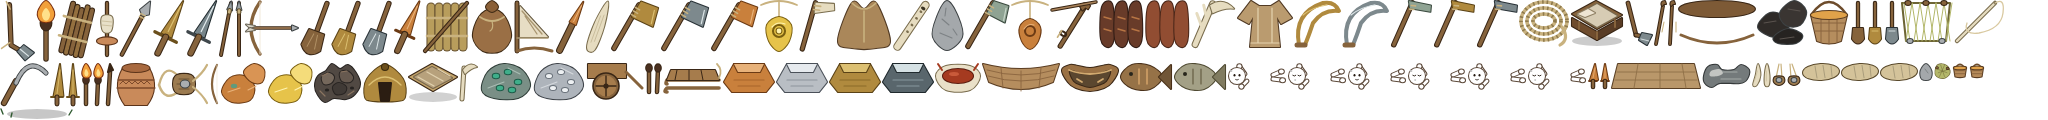
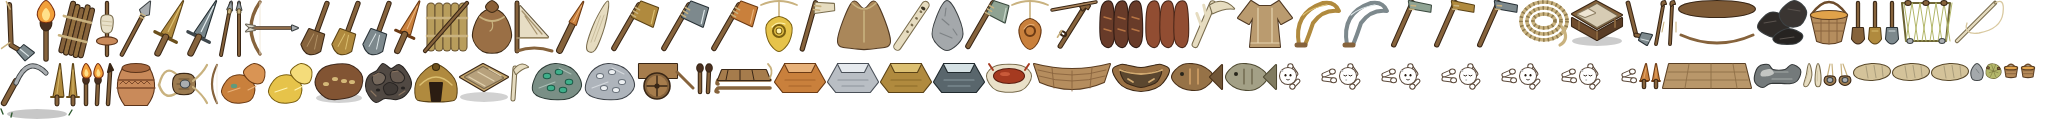
m15: make pemmican and open the populated preservation web

Changed region(s): [[0.1562, 0.525, 1.0, 0.875]]

diff --git a/src/sim/knowledge/Tech.ts b/src/sim/knowledge/Tech.ts
@@ -203,6 +203,7 @@ export const TECHS = [
   'sledge', 'pack_animals', 'horse_riding', 'sail',
   'preserving',
   'smoking',
+  'pemmican',
 ] as const;
 export type Tech = (typeof TECHS)[number];
 
@@ -321,7 +322,7 @@ export type TechKind = 'practice' | 'device';
  * a node lives never changes what anyone can discover, which is why moving a
  * node between webs is bit-identical.
  */
-export type WebId = 'main' | 'arms' | 'field' | 'domestication' | 'kitchen' | 'metal';
+export type WebId = 'main' | 'arms' | 'field' | 'domestication' | 'kitchen' | 'metal' | 'preservation';
 
 export interface WebDef {
   id: WebId;
@@ -342,6 +343,7 @@ export const WEBS: Record<WebId, WebDef> = {
   // M15 phase 37: opened by the first metal anyone used, once a second node
   // (`bellows`, 37e) gives it content. The colour is the domain's verdigris.
   metal: { id: 'metal', label: 'Metal', gate: 'native_copper', color: '#3fb8a0' },
+  preservation: { id: 'preservation', label: 'Preservation', gate: 'preserving', color: '#a88a52' },
 };
 
 /** The webs that hang off a gate, in the order a screen should list them. */
@@ -466,22 +468,37 @@ export interface TechDef {
  * catch.
  */
 export const TECH: Record<Tech, TechDef> = {
+  pemmican: {
+    id: 'pemmican', label: 'Pemmican', domain: 'fire', tier: 'craft', web: 'preservation',
+    age: 'mesolithic', firstKnown: 'Mesolithic', kind: 'device',
+    requires: ['preserving'], difficulty: 0.35, skill: 'cook',
+    prototype: { dried_meat: 1, fat: 1 }, maxRefinement: 2,
+    sparks: [{ needs: [{ kind: 'knows', tech: 'preserving' }, { kind: 'holding', item: 'fat' }],
+      weight: 0.6, story: 'pounded dried meat with fat into food that could be carried for a long journey' },
+      { needs: [{ kind: 'knows', tech: 'preserving' }, { kind: 'feeling', need: 'hunger' }, { kind: 'doing', action: 'craft' }],
+        weight: 0.4, story: 'wanted a smaller, richer ration for the road' }],
+    description: 'Pound dried meat with fat to make nourishing travel food.',
+  },
   smoking: {
     id: 'smoking', label: 'Smoking food', domain: 'fire',
-    age: 'mesolithic', firstKnown: 'Mesolithic', kind: 'device',
+    age: 'mesolithic', firstKnown: 'Mesolithic', kind: 'device', web: 'preservation',
     requires: ['preserving', 'firemaking'], difficulty: 0.4, skill: 'cook',
     prototype: { meat: 1, sticks: 2 }, maxRefinement: 2,
     sparks: [{ needs: [{ kind: 'knows', tech: 'preserving' }, { kind: 'holding', item: 'dried_meat' }],
-      weight: 0.6, story: 'noticed that strips hung above the fire kept better than strips left in the air' }],
+      weight: 0.6, story: 'noticed that strips hung above the fire kept better than strips left in the air' },
+      { needs: [{ kind: 'knows', tech: 'preserving' }, { kind: 'knows', tech: 'firemaking' }, { kind: 'holding', item: 'sticks' }],
+        weight: 0.4, story: 'wondered whether smoke would help food keep longer' }],
     description: 'Smoke meat and fish on a drying rack beside a hearth.',
   },
   preserving: {
     id: 'preserving', label: 'Preserving food', domain: 'fire',
-    age: 'mesolithic', firstKnown: 'Mesolithic', kind: 'device',
+    age: 'mesolithic', firstKnown: 'Mesolithic', kind: 'device', opens: 'preservation',
     requires: ['cooking', 'cordage'], difficulty: 0.35, skill: 'cook',
     prototype: { meat: 1, rope: 1, sticks: 2 }, maxRefinement: 2,
     sparks: [{ needs: [{ kind: 'knows', tech: 'cooking' }, { kind: 'holding', item: 'meat' }],
-      weight: 0.6, story: 'hung strips of meat in the air and found that they kept longer' }],
+      weight: 0.6, story: 'hung strips of meat in the air and found that they kept longer' },
+      { needs: [{ kind: 'knows', tech: 'cooking' }, { kind: 'knows', tech: 'cordage' }, { kind: 'holding', item: 'fish' }],
+        weight: 0.4, story: 'thought of hanging fish on cord to keep them for another day' }],
     description: 'Dry meat and fish on a rack so they keep longer.',
   },
   firemaking: {
@@ -2602,6 +2619,8 @@ export const TECH_EFFECTS: Record<Tech, TechEffect> = {
     site: 'BUILDINGS.drying_rack and RECIPES.dried_meat/dried_fish; Inventory.spoil reads their spoilTicks' },
   smoking: { summary: 'A rack beside a hearth makes smoked food that keeps longer than dried food.',
     site: 'RECIPES.smoked_meat/smoked_fish; order, craft and Brain require a physical hearth' },
+  pemmican: { summary: 'Dried meat and fat become nourishing food for long journeys.',
+    site: 'RECIPES.pemmican and ITEMS.pemmican; ordinary eating and ComarcaInventoryTransfer ration readers' },
   spear: {
     summary: 'A blade at the end of a shaft: harder blows, first strikes, and more fish when harpooned.',
     site: 'ActionSystem.doAttack, doHunt and doHarvest; RECIPES.spear',

diff --git a/src/sim/__tests__/pemmican.test.ts b/src/sim/__tests__/pemmican.test.ts
@@ -1,0 +1,47 @@
+import { describe, expect, it } from 'vitest';
+import { Simulation } from '../core/Simulation.ts';
+import { Inventory, ITEMS } from '../entities/Item.ts';
+import { ComarcaInventoryTransfer } from '../world/ComarcaInventoryTransfer.ts';
+import { RATION_NUTRITION } from '../world/ResourceProfile.ts';
+import { TECH, techsOfWeb, webOf } from '../knowledge/Tech.ts';
+
+describe('pemmican and the populated preservation web', () => {
+  it('pounds actual dried meat and fat without a station, consumes inputs once, and is edible', () => {
+    const sim = new Simulation({ seed: 'pemmican', world: { width: 48, height: 48 },
+      population: { bands: 1, peoplePerBand: 4 } });
+    sim.possessFirst(); const person = sim.player!;
+    person.knownTech.add('pemmican'); person.skills.cook = 100;
+    for (const [item, count] of person.inventory.entries()) person.inventory.remove(item, count);
+    person.inventory.add('dried_meat', 2); person.inventory.add('fat', 1);
+    person.needs.hunger = person.needs.thirst = person.needs.cold = person.needs.fatigue = 0;
+    expect(sim.order(person, 'craft', { recipeId: 'pemmican' })).toBe(true);
+    for (let tick = 0; tick < 1000 && person.inventory.count('pemmican') < 2; tick++) {
+      person.needs.hunger = person.needs.thirst = 0; sim.step();
+    }
+    expect(person.inventory.count('pemmican')).toBe(2);
+    expect(person.inventory.count('dried_meat')).toBe(0); expect(person.inventory.count('fat')).toBe(0);
+    person.needs.hunger = 80;
+    expect(sim.order(person, 'eat', { itemId: 'pemmican' })).toBe(true);
+    for (let tick = 0; tick < 30 && person.inventory.count('pemmican') === 2; tick++) sim.step();
+    expect(person.inventory.count('pemmican')).toBe(1); expect(person.needs.hunger).toBeLessThan(30);
+  });
+
+  it('keeps typed pemmican and exact nutrition through off-map JSON ration consumption', () => {
+    const pack = new Inventory(); pack.add('pemmican', 2);
+    const transfer = ComarcaInventoryTransfer.take([{ sourceId: 'pack', inventory: pack }]);
+    expect(transfer.nutrition()).toBe(120);
+    const loaded = ComarcaInventoryTransfer.fromRecord(JSON.parse(JSON.stringify(transfer.toRecord())), () => pack);
+    const eaten = loaded.consumeRations(1, [{ sourceId: 'pack', itemId: 'pemmican' }]);
+    expect(eaten.consumedNutrition).toBeCloseTo(RATION_NUTRITION);
+    expect(eaten.removals[0]?.itemId).toBe('pemmican');
+    loaded.restore();
+    expect(pack.count('pemmican')).toBeCloseTo(2 - RATION_NUTRITION / 60);
+    expect(ITEMS.pemmican!.spoilTicks).toBeGreaterThan(ITEMS.smoked_meat!.spoilTicks);
+  });
+
+  it('opens preservation only with two real dependent nodes while keeping its gate in main', () => {
+    expect(TECH.preserving.opens).toBe('preservation'); expect(webOf('preserving')).toBe('main');
+    expect(techsOfWeb('preservation')).toEqual(['smoking', 'pemmican']);
+    for (const tech of techsOfWeb('preservation')) expect(TECH[tech].requires).toContain('preserving');
+  });
+});

diff --git a/e2e/pemmican.spec.ts b/e2e/pemmican.spec.ts
@@ -1,0 +1,35 @@
+import { mkdirSync } from 'node:fs';
+import { test, expect } from '@playwright/test';
+
+test('pemmican is made and preservation opens a populated Spanish web', async ({ page }) => {
+  const errors: string[] = []; page.on('pageerror', error => errors.push(error.message));
+  await page.goto('/?seed=e2e-pemmican&skipIntro=1&defaults=1&lang=es');
+  await expect(page.locator('.hud-clock')).not.toBeEmpty({ timeout: 15_000 });
+  await page.locator('.hud-button', { hasText: 'Pausa' }).click();
+  const count = await page.evaluate(() => {
+    const sim = (window as any).__dynasty.sim, person = sim.player;
+    for (const tech of ['preserving', 'smoking', 'pemmican']) person.knownTech.add(tech);
+    person.skills.cook = 100; person.inventory.add('dried_meat', 2); person.inventory.add('fat', 1);
+    person.needs.cold = person.needs.fatigue = 0;
+    if (!sim.order(person, 'craft', { recipeId: 'pemmican' })) throw new Error(sim.lastRefusal);
+    for (let tick = 0; tick < 1000 && person.inventory.count('pemmican') < 2; tick++) {
+      person.needs.hunger = person.needs.thirst = 0; sim.step();
+    }
+    return person.inventory.count('pemmican');
+  });
+  expect(count).toBe(2);
+  await page.locator('.hud-tab[data-tab="kit"]').click();
+  await expect(page.locator('.hud-panel')).toContainText('Pemmican');
+  const shots = process.env.DYNASTY_CAPTURE_DIR ?? 'artifacts/screenshots/m15-phase15b-pemmican-2026-10-10';
+  mkdirSync(shots, { recursive: true });
+  await page.screenshot({ path: `${shots}/01-pemmican-en-equipo.png` });
+  await page.keyboard.press('g');
+  await expect(page.locator('.techweb-gatemark[data-web="preservation"]')).toBeVisible();
+  await page.locator('.techweb-gatemark[data-web="preservation"]').click();
+  await expect(page.locator('.techweb-crumbs')).toContainText('Conservación');
+  await expect(page.locator('.techweb-node[data-tech="smoking"]')).toBeVisible();
+  await expect(page.locator('.techweb-node[data-tech="pemmican"]')).toBeVisible();
+  await expect(page.locator('.techweb-node')).toHaveCount(3);
+  await page.screenshot({ path: `${shots}/02-red-conservacion.png` });
+  expect(errors).toEqual([]);
+});

diff --git a/src/i18n/es/tech.ts b/src/i18n/es/tech.ts
@@ -1,5 +1,12 @@
 /** Spanish for tech. Keys are the English templates; see `i18n.ts`. */
 export const ES_TECH: Record<string, string> = {
+  'wanted a smaller, richer ration for the road': 'quería una ración más pequeña y nutritiva para el camino',
+  'wondered whether smoke would help food keep longer': 'se preguntó si el humo ayudaría a conservar la comida',
+  'thought of hanging fish on cord to keep them for another day': 'pensó en colgar pescado de una cuerda para conservarlo otro día',
+  'Preservation': 'Conservación',
+  'Pound dried meat with fat to make nourishing travel food.': 'Machacar carne seca con grasa para preparar comida nutritiva de viaje.',
+  'Dried meat and fat become nourishing food for long journeys.': 'La carne seca y la grasa se convierten en comida nutritiva para viajes largos.',
+  'pounded dried meat with fat into food that could be carried for a long journey': 'machacó carne seca con grasa para preparar comida que pudiera llevar en un viaje largo',
   'Smoking food': 'Ahumar comida',
   'Smoke meat and fish on a drying rack beside a hearth.': 'Ahumar carne y pescado en un secadero junto a una hoguera.',
   'A rack beside a hearth makes smoked food that keeps longer than dried food.': 'Un secadero junto a una hoguera produce comida ahumada que dura más que la comida seca.',

diff --git a/art/src/props/items.ts b/art/src/props/items.ts
@@ -6,6 +6,10 @@ export type ItemArt = [id: string, label: string, tech: string, draw: () => stri
 export const WOOD = '#86633c', WOOD_D = '#3a2716', STONE = '#a9adb0', STONE_D = '#3d4244', BONE = '#e6dcc0', BONE_D = '#7a6d4e', CORD = '#c9b27f';
 const rot = (inner: string, deg: number, cx = 32, cy = 32): string => `<g transform="rotate(${deg} ${cx} ${cy})">${inner}</g>`;
 export const ITEMS: ItemArt[] = [
+  ['pemmican', 'Pemmican', 'pemmican', () =>
+    ell(32, 50, 23, 5, 'rgba(0,0,0,0.18)')
+    + shape(smooth([[9, 31], [19, 19], [42, 17], [55, 29], [49, 46], [25, 51], [12, 43]]), '#825433', '#3f291c')
+    + [19, 28, 37, 45].map(x => ell(x, 31 + x % 7, 3, 2, '#d4b878')).join('')],
   ['smoked_meat', 'Carne ahumada', 'smoking', () =>
     [18, 32, 46].map(x => shape(smooth([[x - 5, 13], [x + 5, 10], [x + 7, 42], [x + 2, 53], [x - 6, 45]]), '#683b29', '#301c15')
       + stroke(`M${x - 3},23L${x + 4},25M${x - 3},35L${x + 4},37`, '#b77544', 1.5)).join('')],

diff --git a/src/sim/entities/Recipe.ts b/src/sim/entities/Recipe.ts
@@ -798,6 +798,8 @@ export const RECIPES: Record<string, RecipeDef> = {
   smoked_fish: { id: 'smoked_fish', label: 'Smoke fish', icon: '🐟', tech: 'smoking', skill: 'cook',
     workTicks: 160, ingredients: { fish: 2, sticks: 1 }, output: { smoked_fish: 2 }, station: 'drying_rack',
     preservesInput: 'fish', requiresFire: true, keep: 4 },
+  pemmican: { id: 'pemmican', label: 'Make pemmican', icon: '🥩', tech: 'pemmican', skill: 'cook',
+    workTicks: 120, ingredients: { dried_meat: 2, fat: 1 }, output: { pemmican: 2 }, keep: 4 },
 };
 
 /** Every item any recipe can produce. Used by the "is this reachable?" tests. */

diff --git a/src/sim/entities/Item.ts b/src/sim/entities/Item.ts
@@ -474,6 +474,9 @@ export const ITEMS: Record<string, ItemDef> = {
   smoked_fish: { id: 'smoked_fish', label: 'Smoked fish', nutrition: 23, spoilTicks: 16000,
     macros: { fat: 0.35, protein: 0.65, carb: 0 }, baseValue: 9,
     class: 'food', hand: { perHand: 3, perArms: 8, hands: 1 } },
+  pemmican: { id: 'pemmican', label: 'Pemmican', nutrition: 60, spoilTicks: 120000,
+    macros: { fat: 0.6, protein: 0.4, carb: 0 }, baseValue: 15,
+    class: 'food', hand: { perHand: 3, perArms: 8, hands: 1 } },
 };
 
 export class Inventory {

diff --git a/src/sim/__tests__/tech.test.ts b/src/sim/__tests__/tech.test.ts
@@ -636,6 +636,6 @@ describe('the sub-webs (M15 phase 13a)', () => {
       expect(web.label.length).toBeGreaterThan(0);
       expect(web.color).toMatch(/^#[0-9a-f]{6}$/i);
     }
-    expect(SUB_WEBS.map(web => web.id)).toEqual(['arms', 'field', 'domestication', 'kitchen', 'metal']);
+    expect(SUB_WEBS.map(web => web.id)).toEqual(['arms', 'field', 'domestication', 'kitchen', 'metal', 'preservation']);
   });
 });

diff --git a/src/i18n/es/data.ts b/src/i18n/es/data.ts
@@ -1,5 +1,7 @@
 /** Spanish for data. Keys are the English templates; see `i18n.ts`. */
 export const ES_DATA: Record<string, string> = {
+  'Pemmican': 'Pemmican',
+  'Make pemmican': 'Preparar pemmican',
   'Smoked meat': 'Carne ahumada',
   'Smoked fish': 'Pescado ahumado',
   'Smoke meat': 'Ahumar carne',

diff --git a/docs/m15_phase15b_pemmican.md b/docs/m15_phase15b_pemmican.md
@@ -1,0 +1,35 @@
+# M15 phase15b: pemmican and Preservation
+
+Two dried meat and one fat become two pemmican units through an interrupted,
+banked 120-work cooking recipe. No station or fire is required. The discoverable
+craft requires preserving. Its actual food definition provides60 nutrition,
+120000 spoilTicks, ordinary macro/eating readers, and hand capacity3/8.
+ComarcaInventoryTransfer consumes its real typed nutrition after JSON transfer;
+there is no off-map conversion into an invented generic provision item.
+Initial nutrition/value/duration coefficients are not a measured economy gain.
+
+Preserving now opens Preservation with two effective children, smoking and
+pemmican. The existing web renderer provides its known counts, anchor,
+breadcrumbs and stable positions; the gate stays in main. Spanish labels,
+descriptions, discoveries and generated pemmican art ship together.
+
+The fixed-index33 global run exposed two discovery-contract regressions:
+preserving/smoking had only one spark, and preserving required rare meat on
+every route. They now also have fish or sticks routes. Pemmican ships with
+two routes too. Existing synthesis checks guard all three without relaxed
+assertions. This correction is part of making the populated web discoverable.
+
+## Verification
+
+112/112 tests in eight files passed: pemmican, drying/smoking, tech, web layout,
+synthesis, i18n and generated art. Typecheck passed. Three new pemmican tests
+fail against the preceding food/tech tables. Tests cover real crafting/eating,
+JSON typed ration consumption and the populated-web contract.
+Single-seed report retains cravings-steer-the-diet/perf-budget (2/147).
+The separate global index33 suite is not represented as passing.
+
+Browser case passed with a clean exit (1 passed,6.1s), including a real click
+into the Spanish Preservation sub-web. Inspected captures:
+artifacts/screenshots/m15-phase15b-pemmican-2026-10-10/01-pemmican-en-equipo.png
+and02-red-conservacion.png. Saltmaking/salting, indoor racks and15d remain open;
+15c activation and cohorts remain deferred by the owner's M15 instruction.

diff --git a/docs/changelog.md b/docs/changelog.md
@@ -14425,3 +14425,16 @@ Captura: artifacts/screenshots/m15-phase15b-smoking-2026-10-10/01-ahumado-junto-
 82 pruebas focales y seis finales de ahumado correctas; typecheck correcto;
 E2E 1 passed con salida limpia. Single-seed conserva cravings-steer-the-diet y
 perf-budget; no cohorte ni afirmación de mejor supervivencia.15b continúa.
+
+## 2026-10-10 — m15: pemmican y sub-red Conservación (0.15.34-alpha)
+
+Carne seca y grasa producen pemmican comestible, de larga duración, con lectores
+normales de nutrición y raciones fuera de mapa. preserving abre Conservación
+al disponer de dos hijos efectivos: smoking/pemmican. Dos rutas de descubrimiento
+por nodo; se corrigen las rutas únicas de preserving/smoking que la suite global
+33 detectó como regresiones nuevas. No se relaja ninguna puerta de synthesis.
+Contrato docs/m15_phase15b_pemmican.md:112 pruebas focales y typecheck correctos;
+E2E1 passed con salida limpia, captura Equipo y clic real a Conservación.
+Capturas: artifacts/screenshots/m15-phase15b-pemmican-2026-10-10/.
+Single-seed conserva dos fallos nombrados; tasa0 y cohortes siguen diferidas.
+No se afirma mejora de supervivencia ni cierre completo de15b.

diff --git a/docs/bugs.md b/docs/bugs.md
@@ -4704,3 +4704,10 @@ y fixture ironworkers corregidas;41/41+5/5 pruebas focales correctas. Junto con
 la traducción de carbón resuelven15 de los22 fallos de la copia28. Quedan los
 7 fallos del contador de comida, difusión, correspondencia, tierra, tributo,
 conspiración y sed, sin afirmar resultado global actualizado.
+
+### 2026-10-10 — descubrimiento de conservación, corregido
+La suite fija33 encontró dos regresiones nuevas de los nodos preserving/smoking:
+ruta única y preserving solo concebible con carne rara. La apertura real de
+Conservación añade rutas alternativas pescado/palos y dos rutas a pemmican.
+Synthesis y el conjunto focal pasan (112/112). La ejecución global33 se conserva
+como evidencia de los fallos originales; no se presenta como suite verde.
